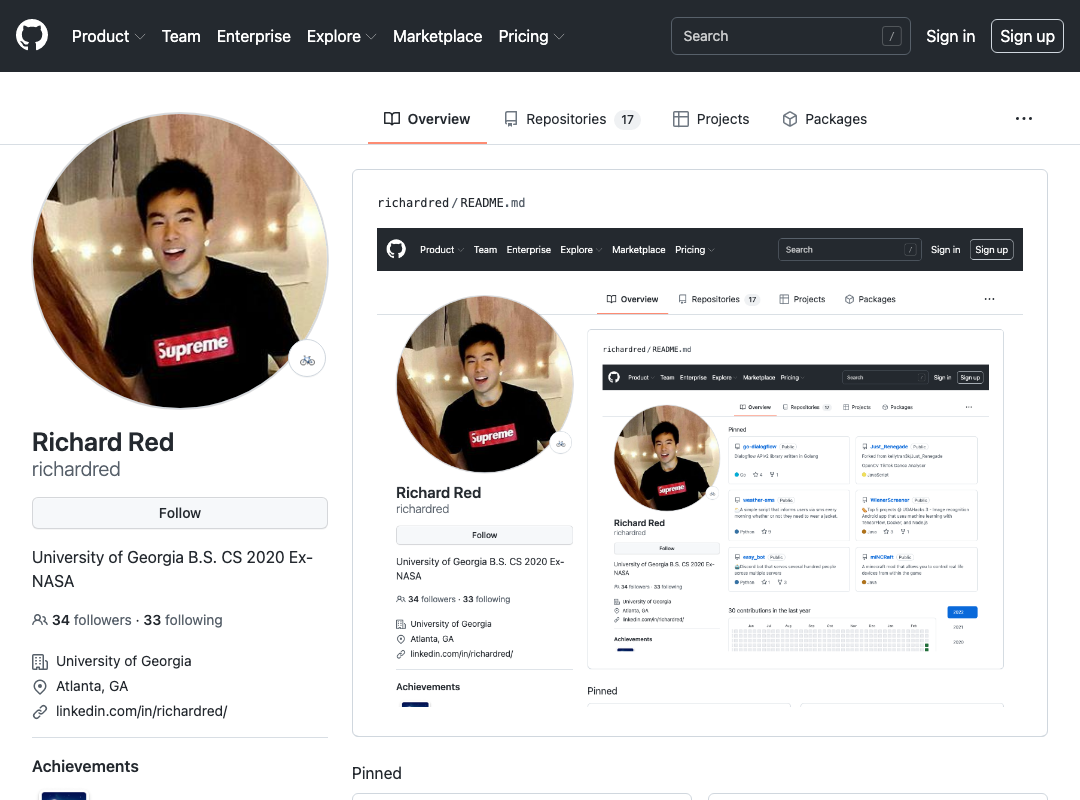
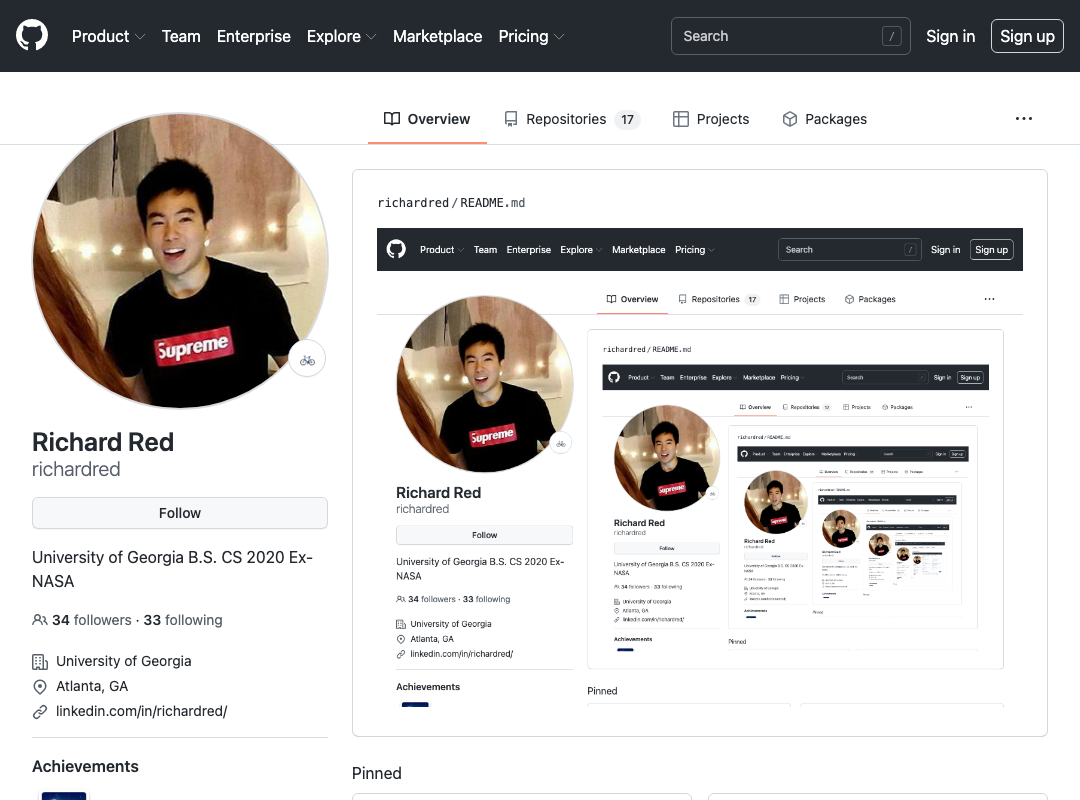
adds new screenshot at depth5

Changed region(s): [[0.6722, 0.5312, 0.9167, 0.8125], [0.8556, 0.75, 0.9167, 0.7812]]

diff --git a/README.md b/README.md
@@ -1,1 +1,1 @@
-![Woah!](https://github.com/richardred/richardred/blob/main/screenshot-1.png)
+![Woah!](https://github.com/richardred/richardred/blob/main/screenshot-5.png)
